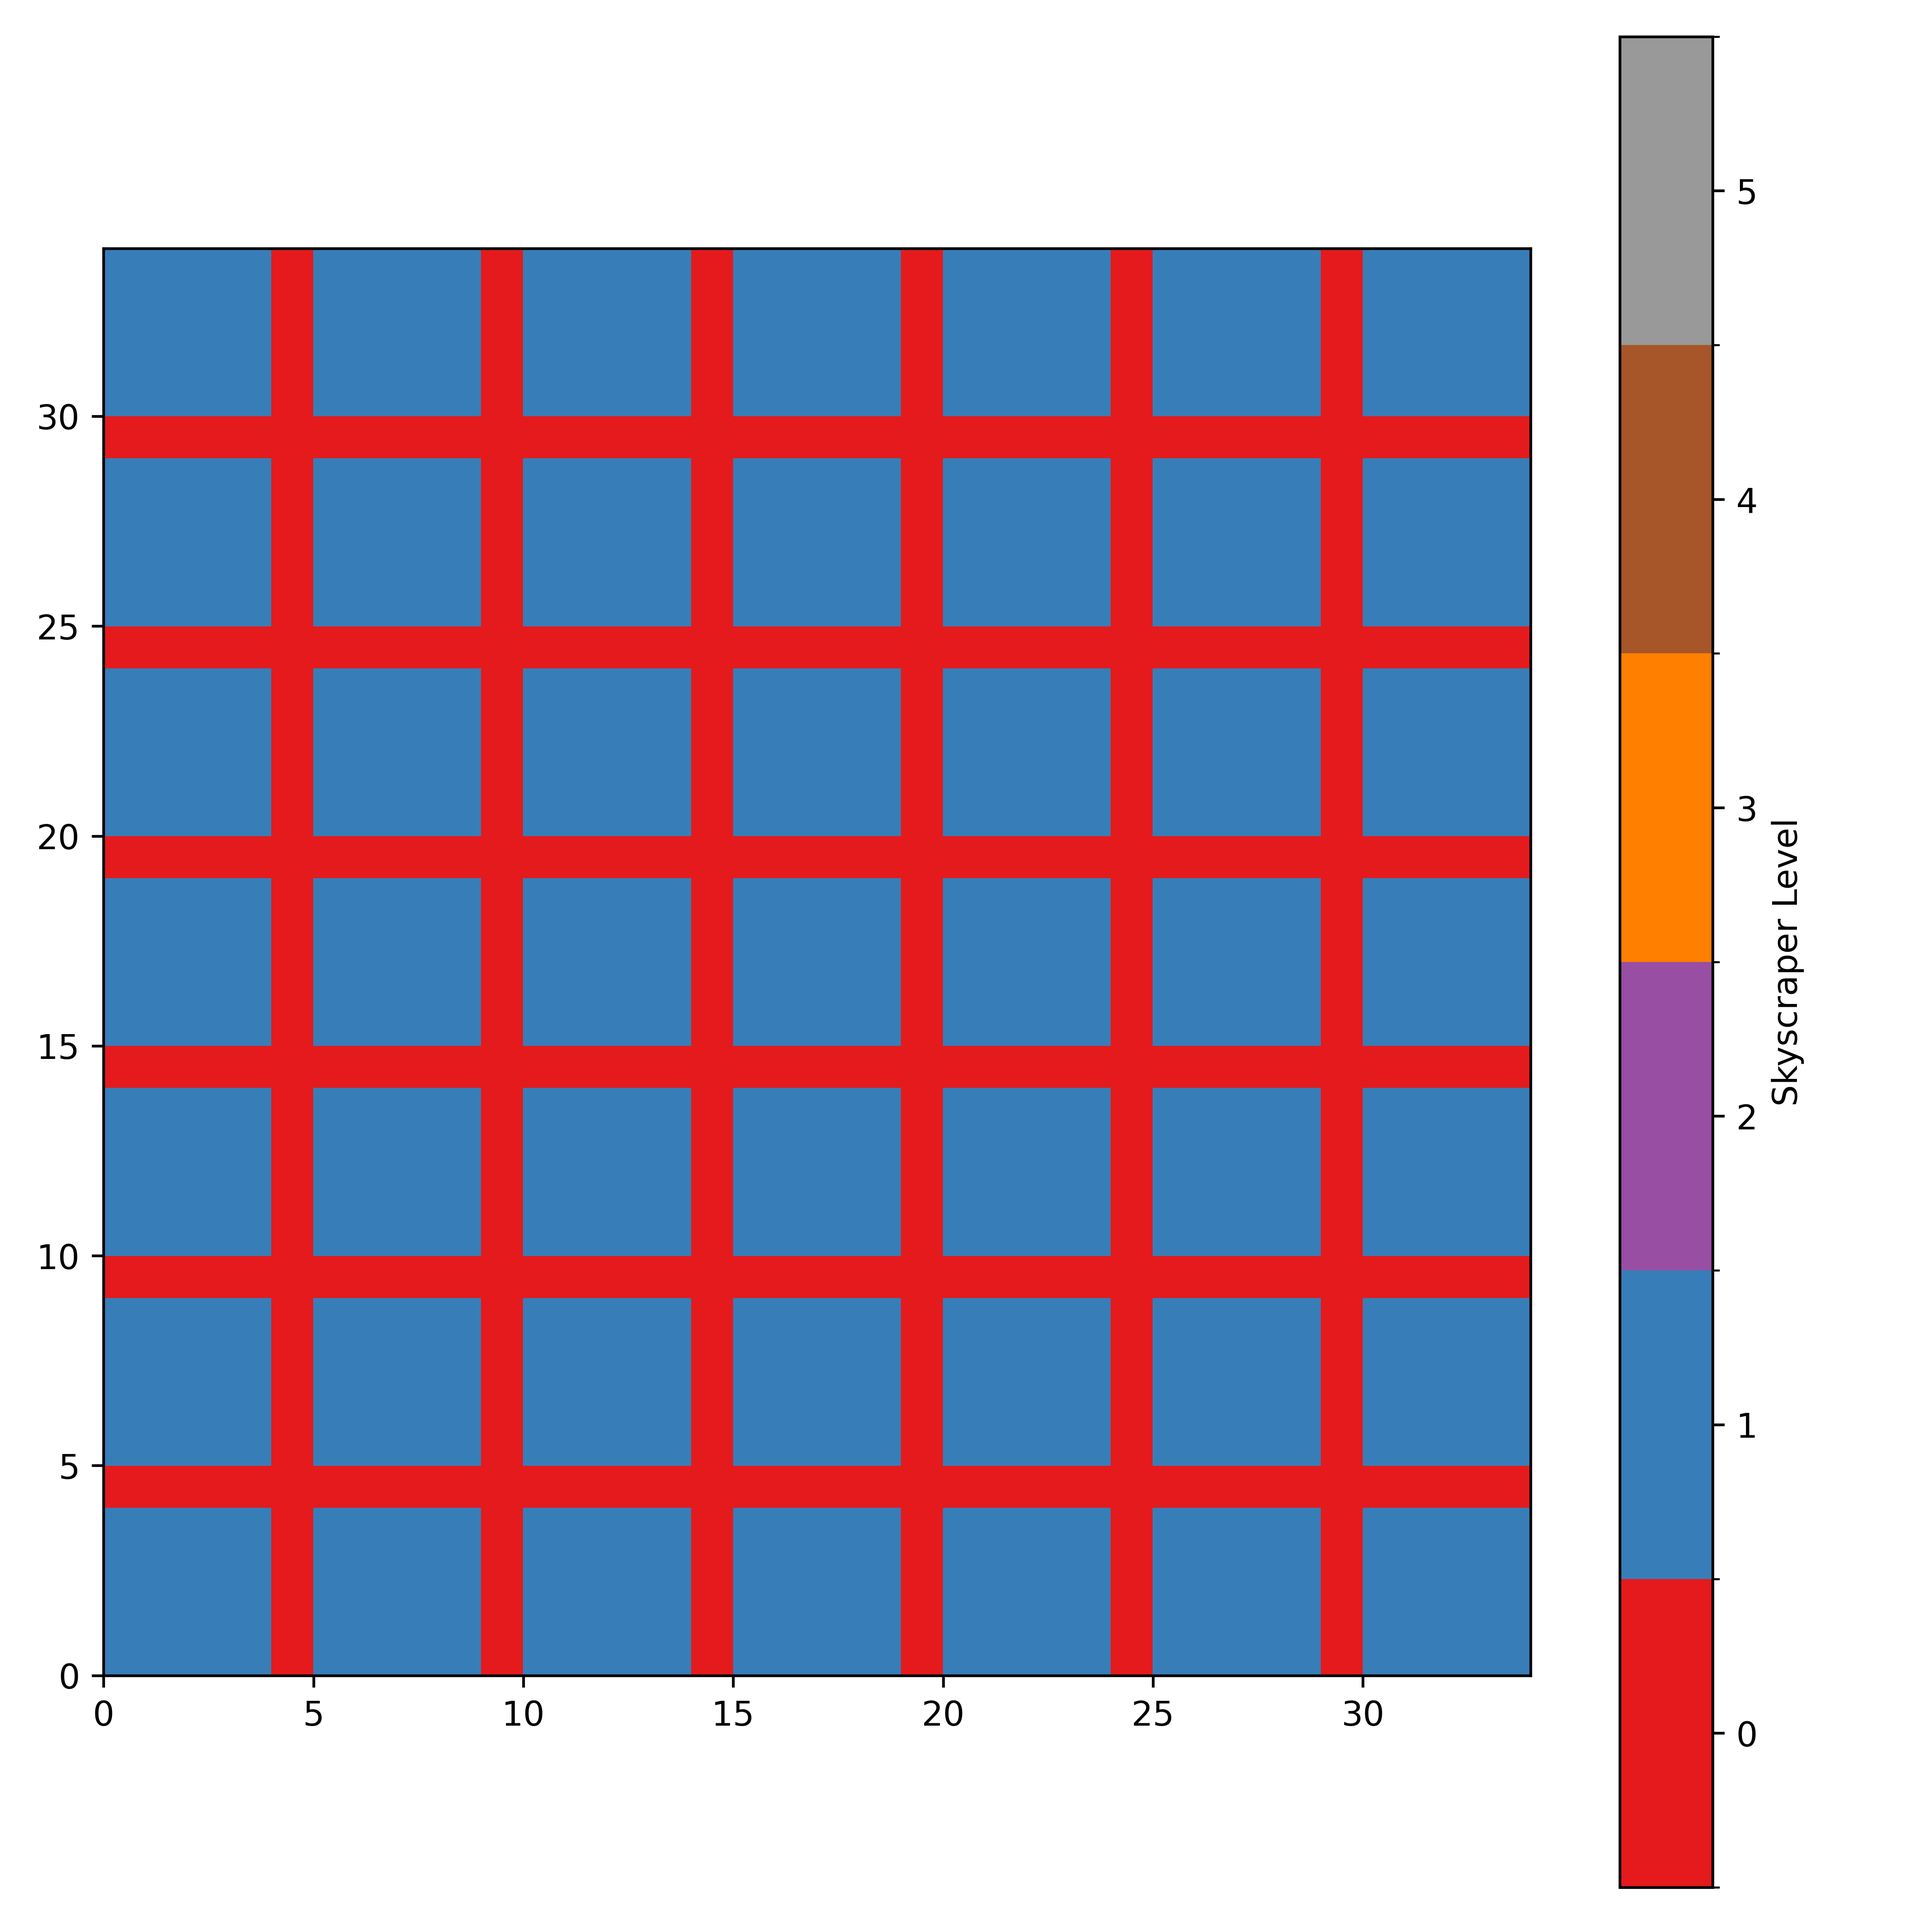
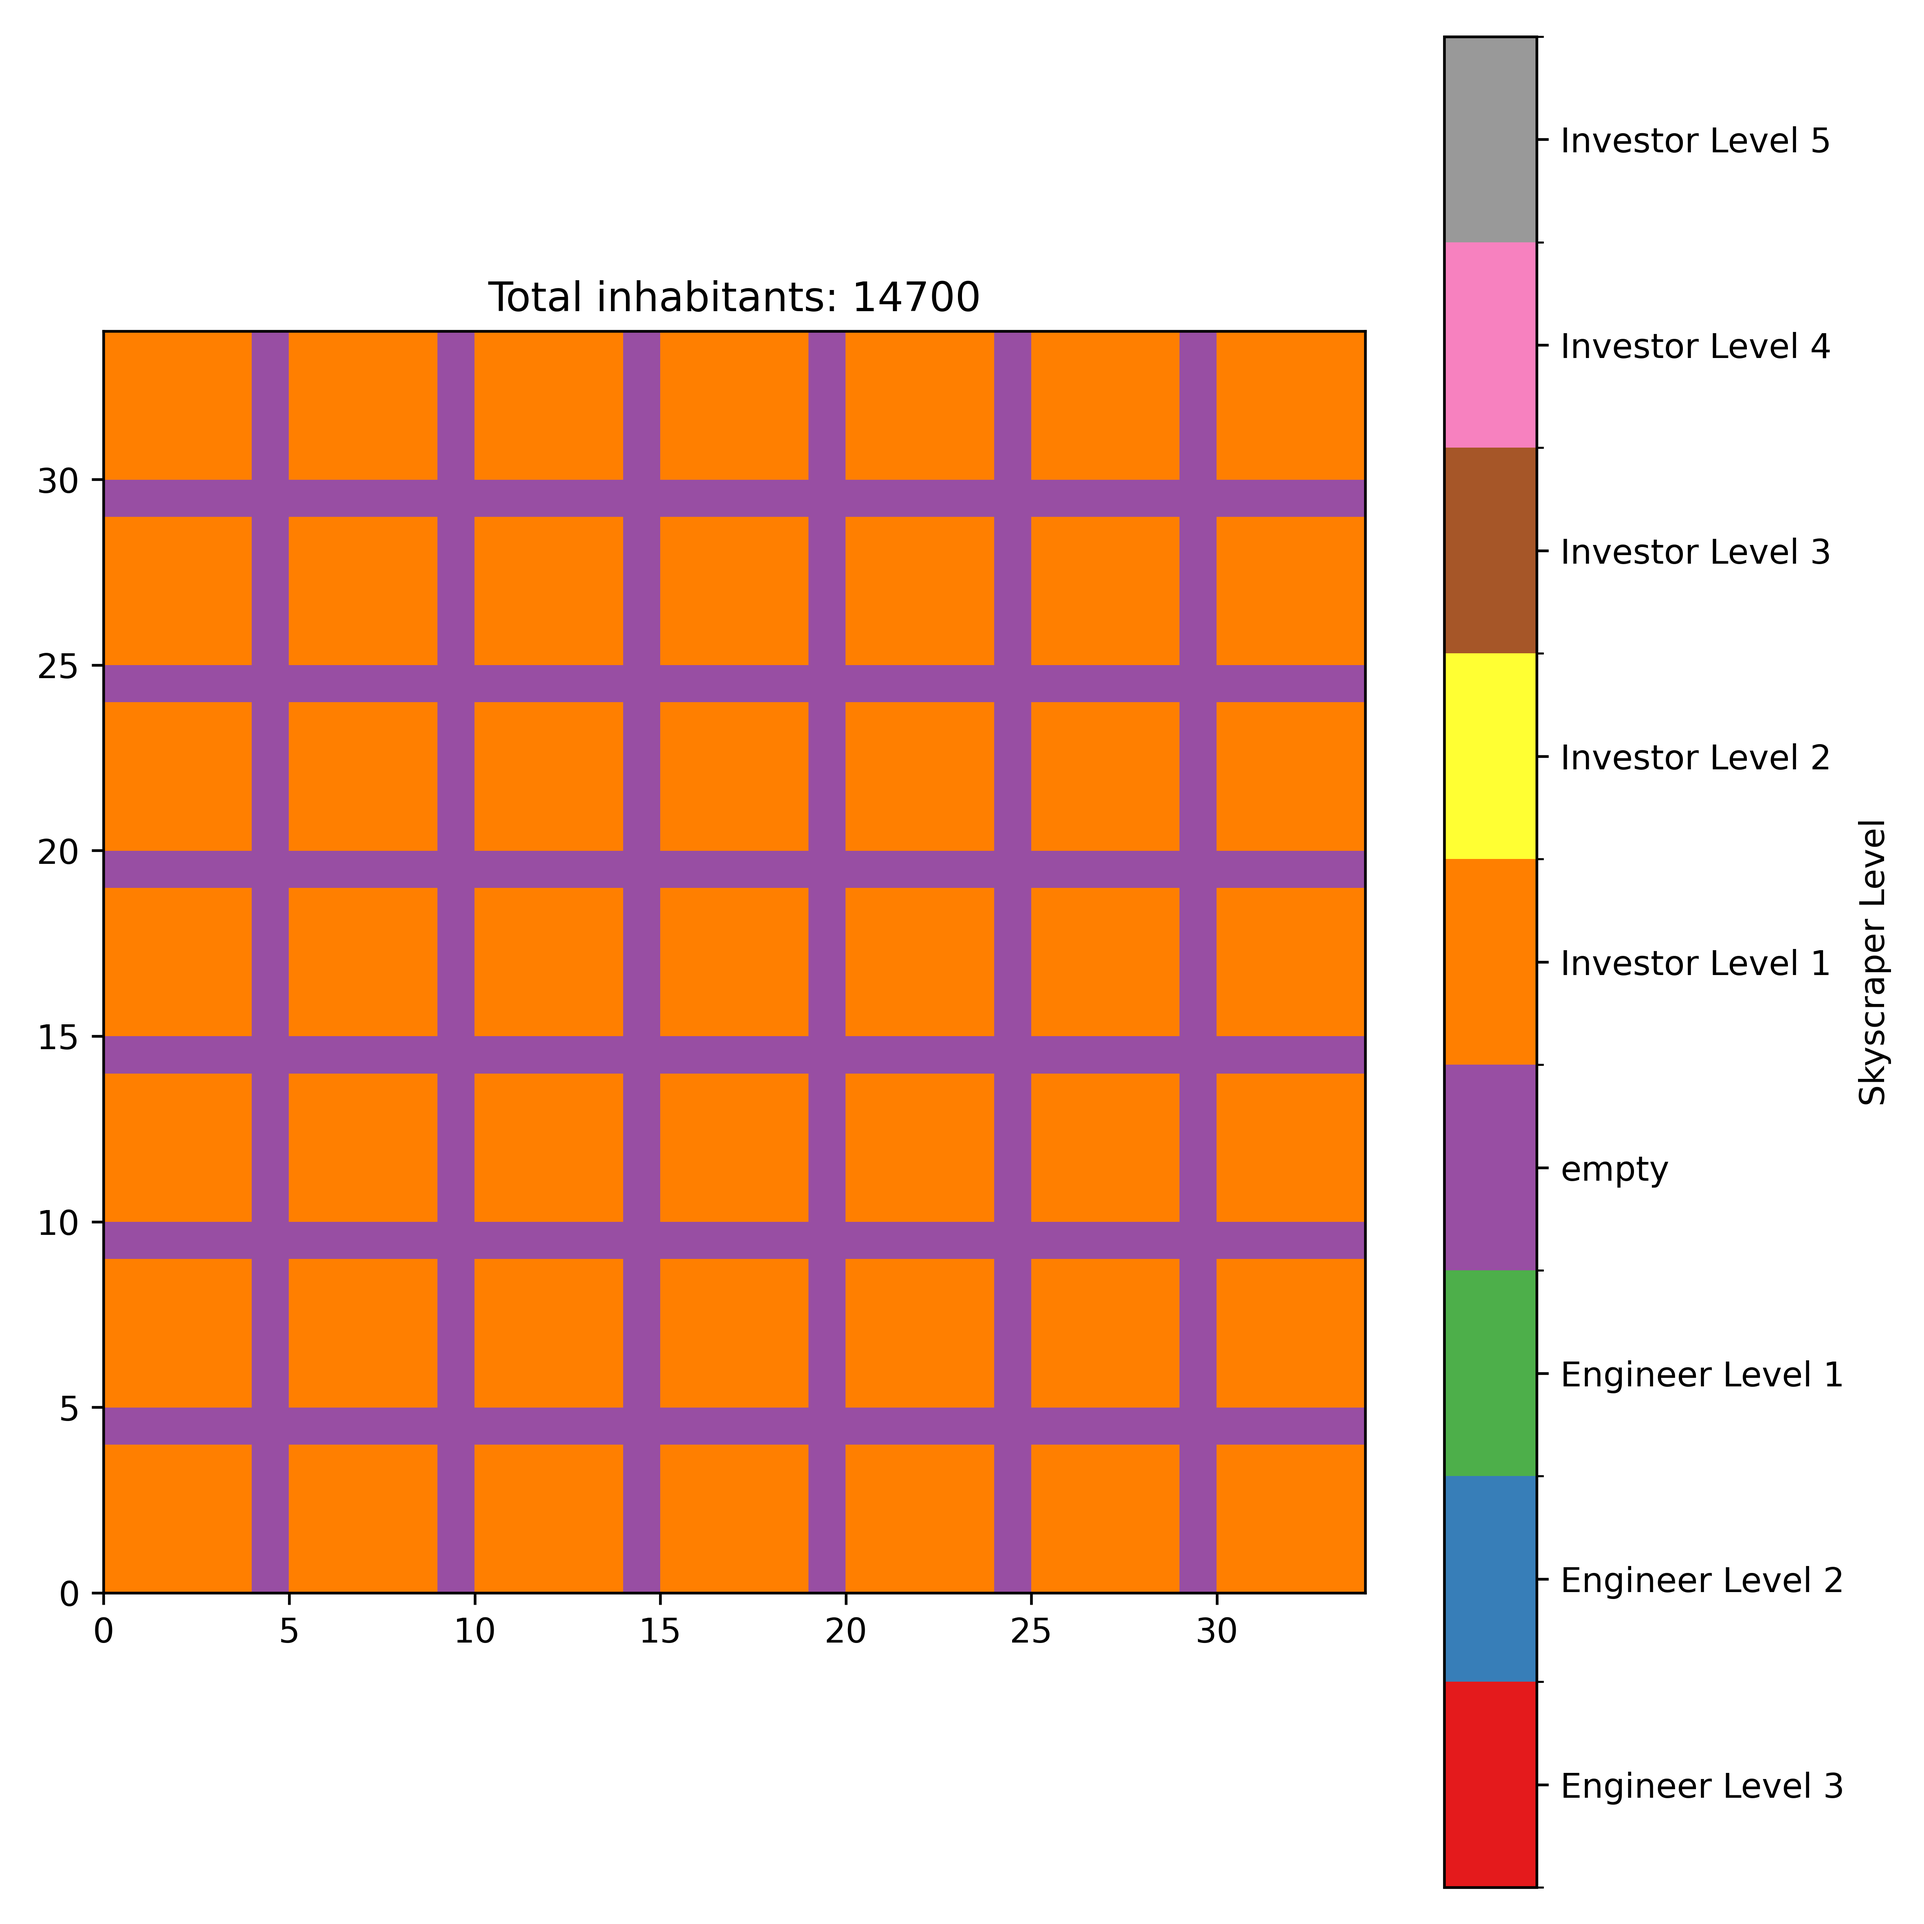
prettified output map

diff --git a/anno1800skyscraper/map.py b/anno1800skyscraper/map.py
@@ -55,29 +55,48 @@ class Map:
                 print(house)
         print(f"Total inhabitants: {self.total_inhabitants}")
 
-        bounds = [a-0.5 for a in [0, 1, 2, 3, 4, 5, 6]]
+        bounds = [a-0.5 for a in [-3, -2, -1, 0, 1, 2, 3, 4, 5, 6]]
         cmap = matplotlib.colormaps["Set1"]
         norm = colors.BoundaryNorm(bounds, cmap.N)
 
         fig, ax = open_figure(**kwargs)
-        im = ax.imshow(self.categorical_coords_map, origin='lower', cmap=cmap, norm=norm,
+        cat_map = self.categorical_coords_map
+        im = ax.imshow(cat_map[:, :, 0] * cat_map[:, :, 1], origin='lower', cmap=cmap, norm=norm,
                        extent=[0, self.width, 0, self.width])
-        fig.colorbar(im, ax=ax, cmap=cmap, norm=norm, boundaries=bounds,
-                     ticks=[b + 0.5 for b in bounds], label="Skyscraper Level")
+        cbar = fig.colorbar(im, ax=ax, cmap=cmap, norm=norm, boundaries=bounds,
+                            ticks=[b + 0.5 for b in bounds], label="Skyscraper Level")
+        ticklabels = cbar.ax.get_ymajorticklabels()
+        newTicklabels = []
+        for ticklabel in ticklabels:
+            tl = ticklabel
+            text = tl._text.replace(u"\u2212", "-")
+            if text[0] == "-":
+                text = text.replace("-", "Engineer Level ")
+            elif text == "0":
+                text = "empty"
+            else:
+                text = "Investor Level " + text
+            tl._text = text
+            newTicklabels.append(tl)
+        cbar.ax.set_yticklabels(newTicklabels)
         ax.set_xlim(0, self.width)
         ax.set_ylim(0, self.width)
+        ax.set_title(f"Total inhabitants: {self.total_inhabitants}")
         fig.show()
         return fig, ax
 
     @property
     def categorical_coords_map(self):
         vals = np.unique(self.coord_map)
-        new_map = np.zeros((self.width, self.width), dtype=int)
+        new_map = np.zeros((self.width, self.width, 2), dtype=int)
         i = 0
         for v in vals:
             if v == "":
                 continue
-            new_map[self.coord_map == v] = self.house_by_hash(v.decode("utf-8")).level
+            new_map[self.coord_map == v, :] = [
+                1 if self.house_by_hash(v.decode("utf-8")).type.value else -1,
+                self.house_by_hash(v.decode("utf-8")).level
+            ]
             i += 1
         return new_map
 
